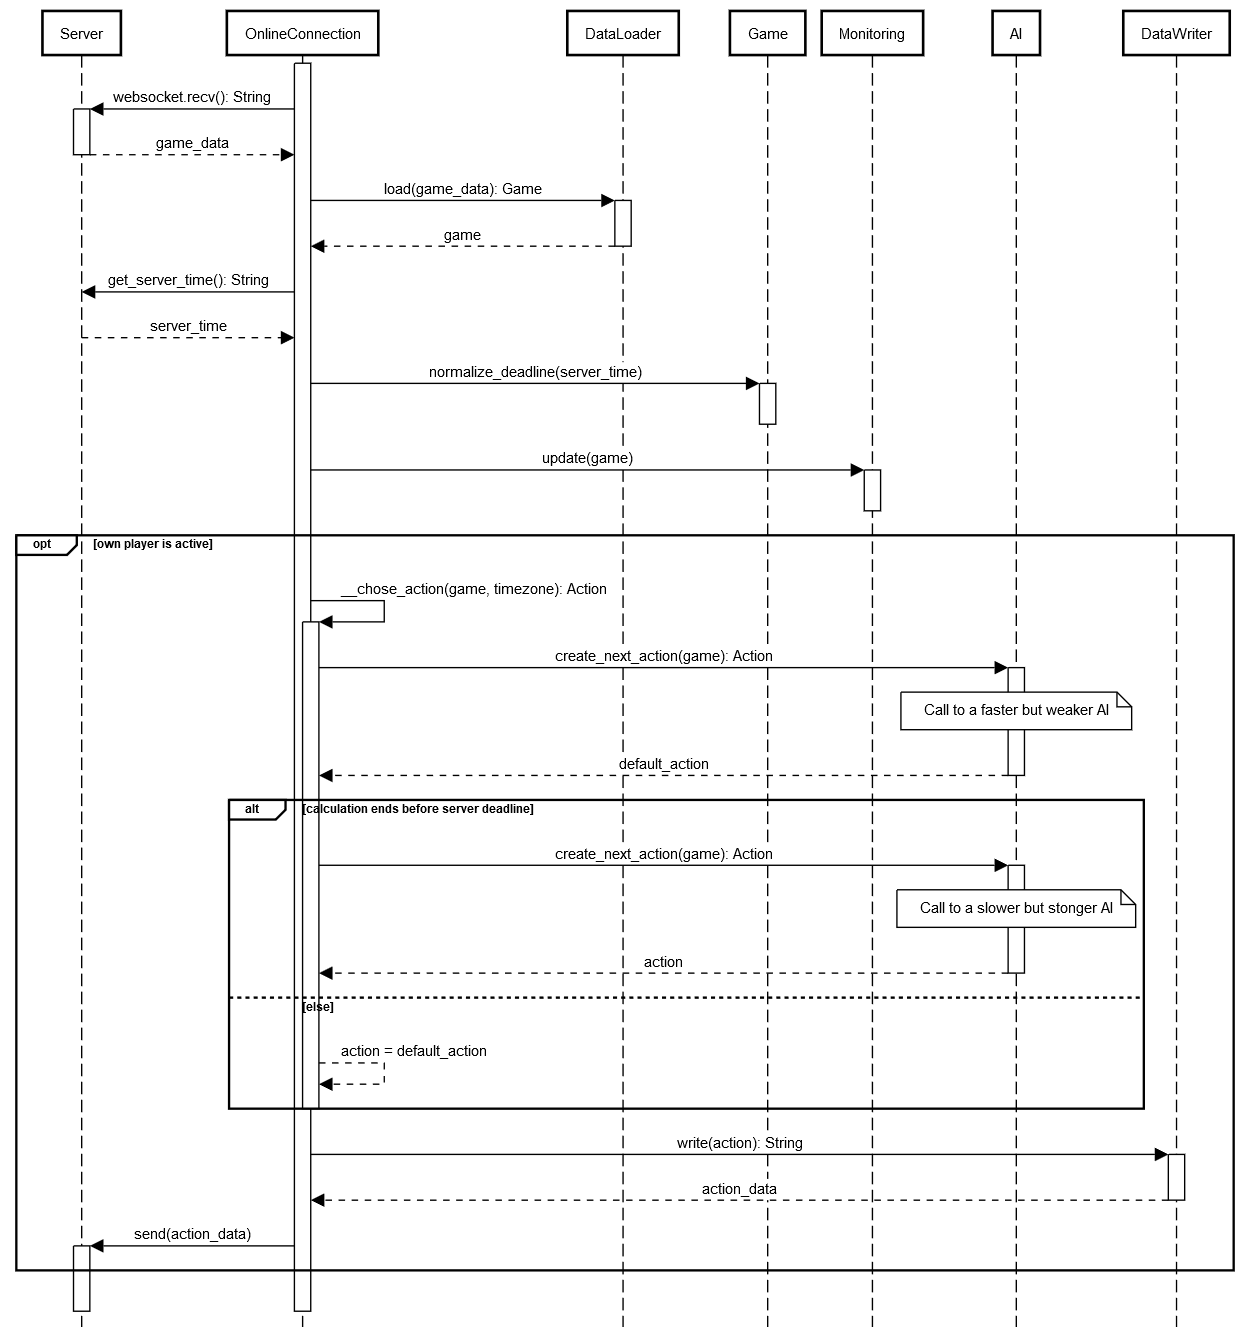
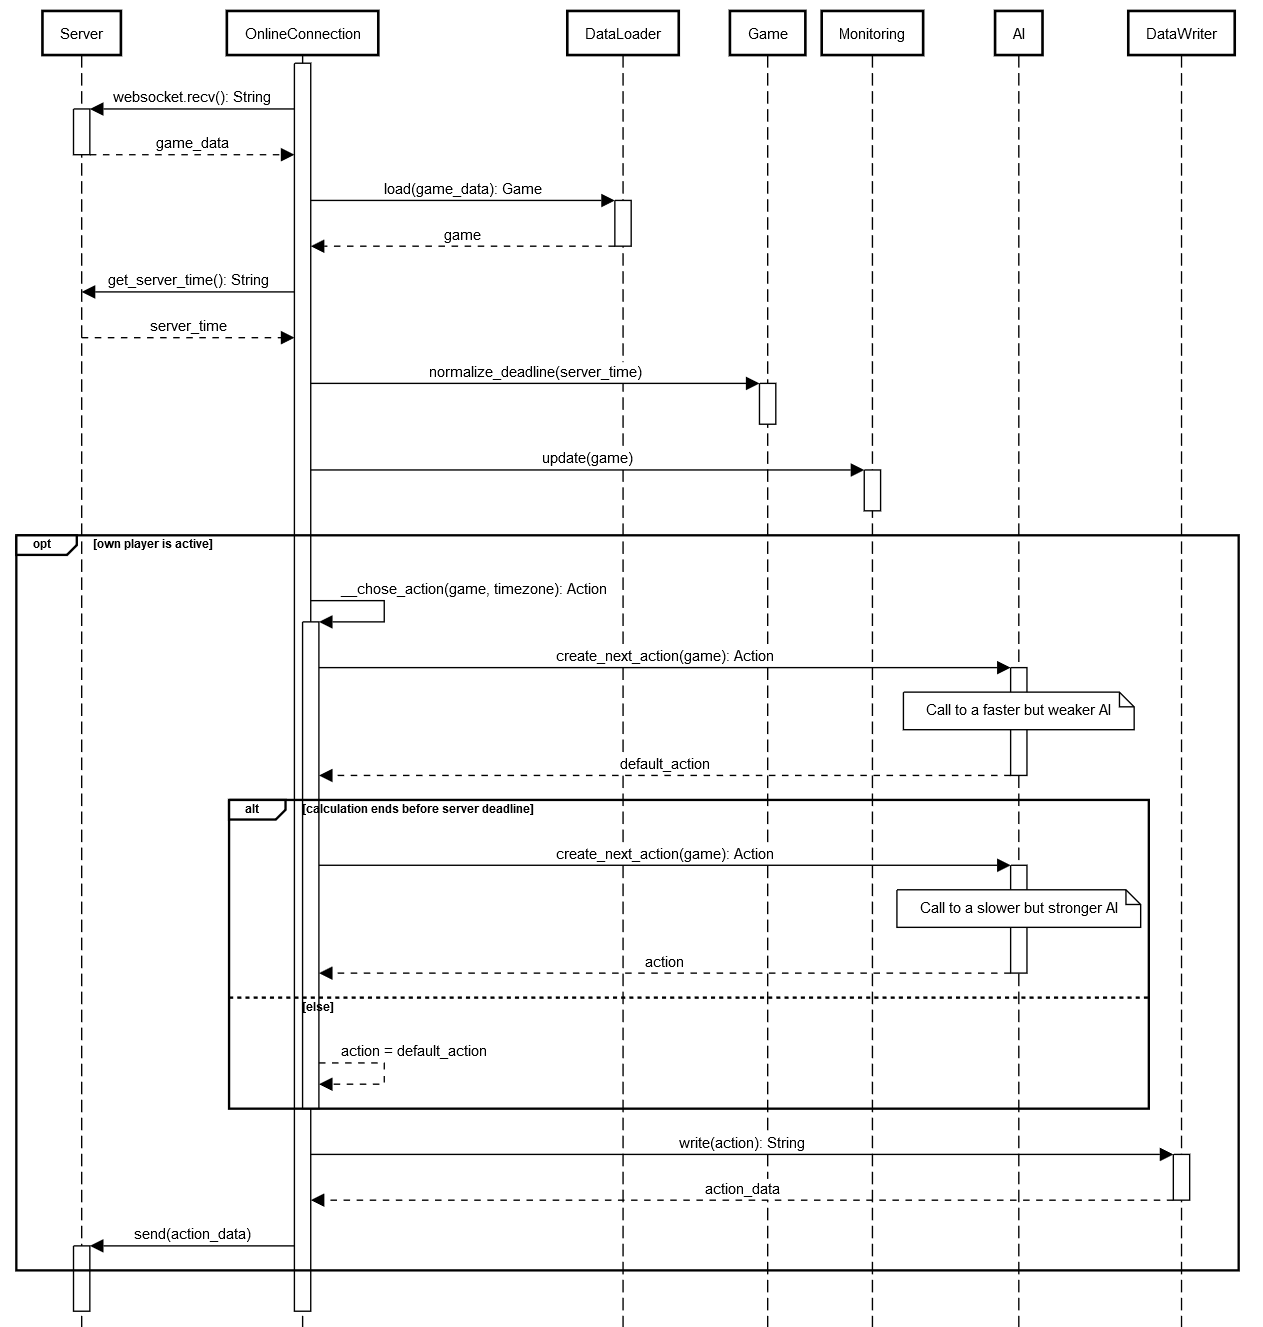
Anmerkungen aus Review umgesetzt

diff --git a/dokumentation/Inhalte/Implementierung.tex b/dokumentation/Inhalte/Implementierung.tex
@@ -94,8 +94,8 @@ Im ersten Schritt wird von einer vergleichsweise schnellen, aber eher schwächer
 nächsten Zug berechnet, durch die der Spieler nicht direkt sterben wird.
 Erst im Anschluss wird die Berechnung der eigentlich ausgewählten \ac{KI} in einem neuen Prozess gestartet. \\
 
-Hierbei kann die Berechnung länger dauern, als in der Spielrunde an Zeit zur Verfügung steht.
-Daher wird dieser Prozess eine Sekunde vor Ablauf der Deadline abgebroche, falls die Berechnung der \ac{KI} noch nicht
+Hierbei kann die Berechnung länger dauern, als in der Spielrunde zeitlich zur Verfügung steht.
+Daher wird dieser Prozess eine Sekunde vor Ablauf der Deadline abgebrochen, falls die Berechnung der \ac{KI} noch nicht
 beendet ist.
 Bei einem Abbrch wird dann die Standard-Aktion an den Server geschickt, andernfalls wird die Berechnung der stärkeren
 \ac{KI} verwendet.
